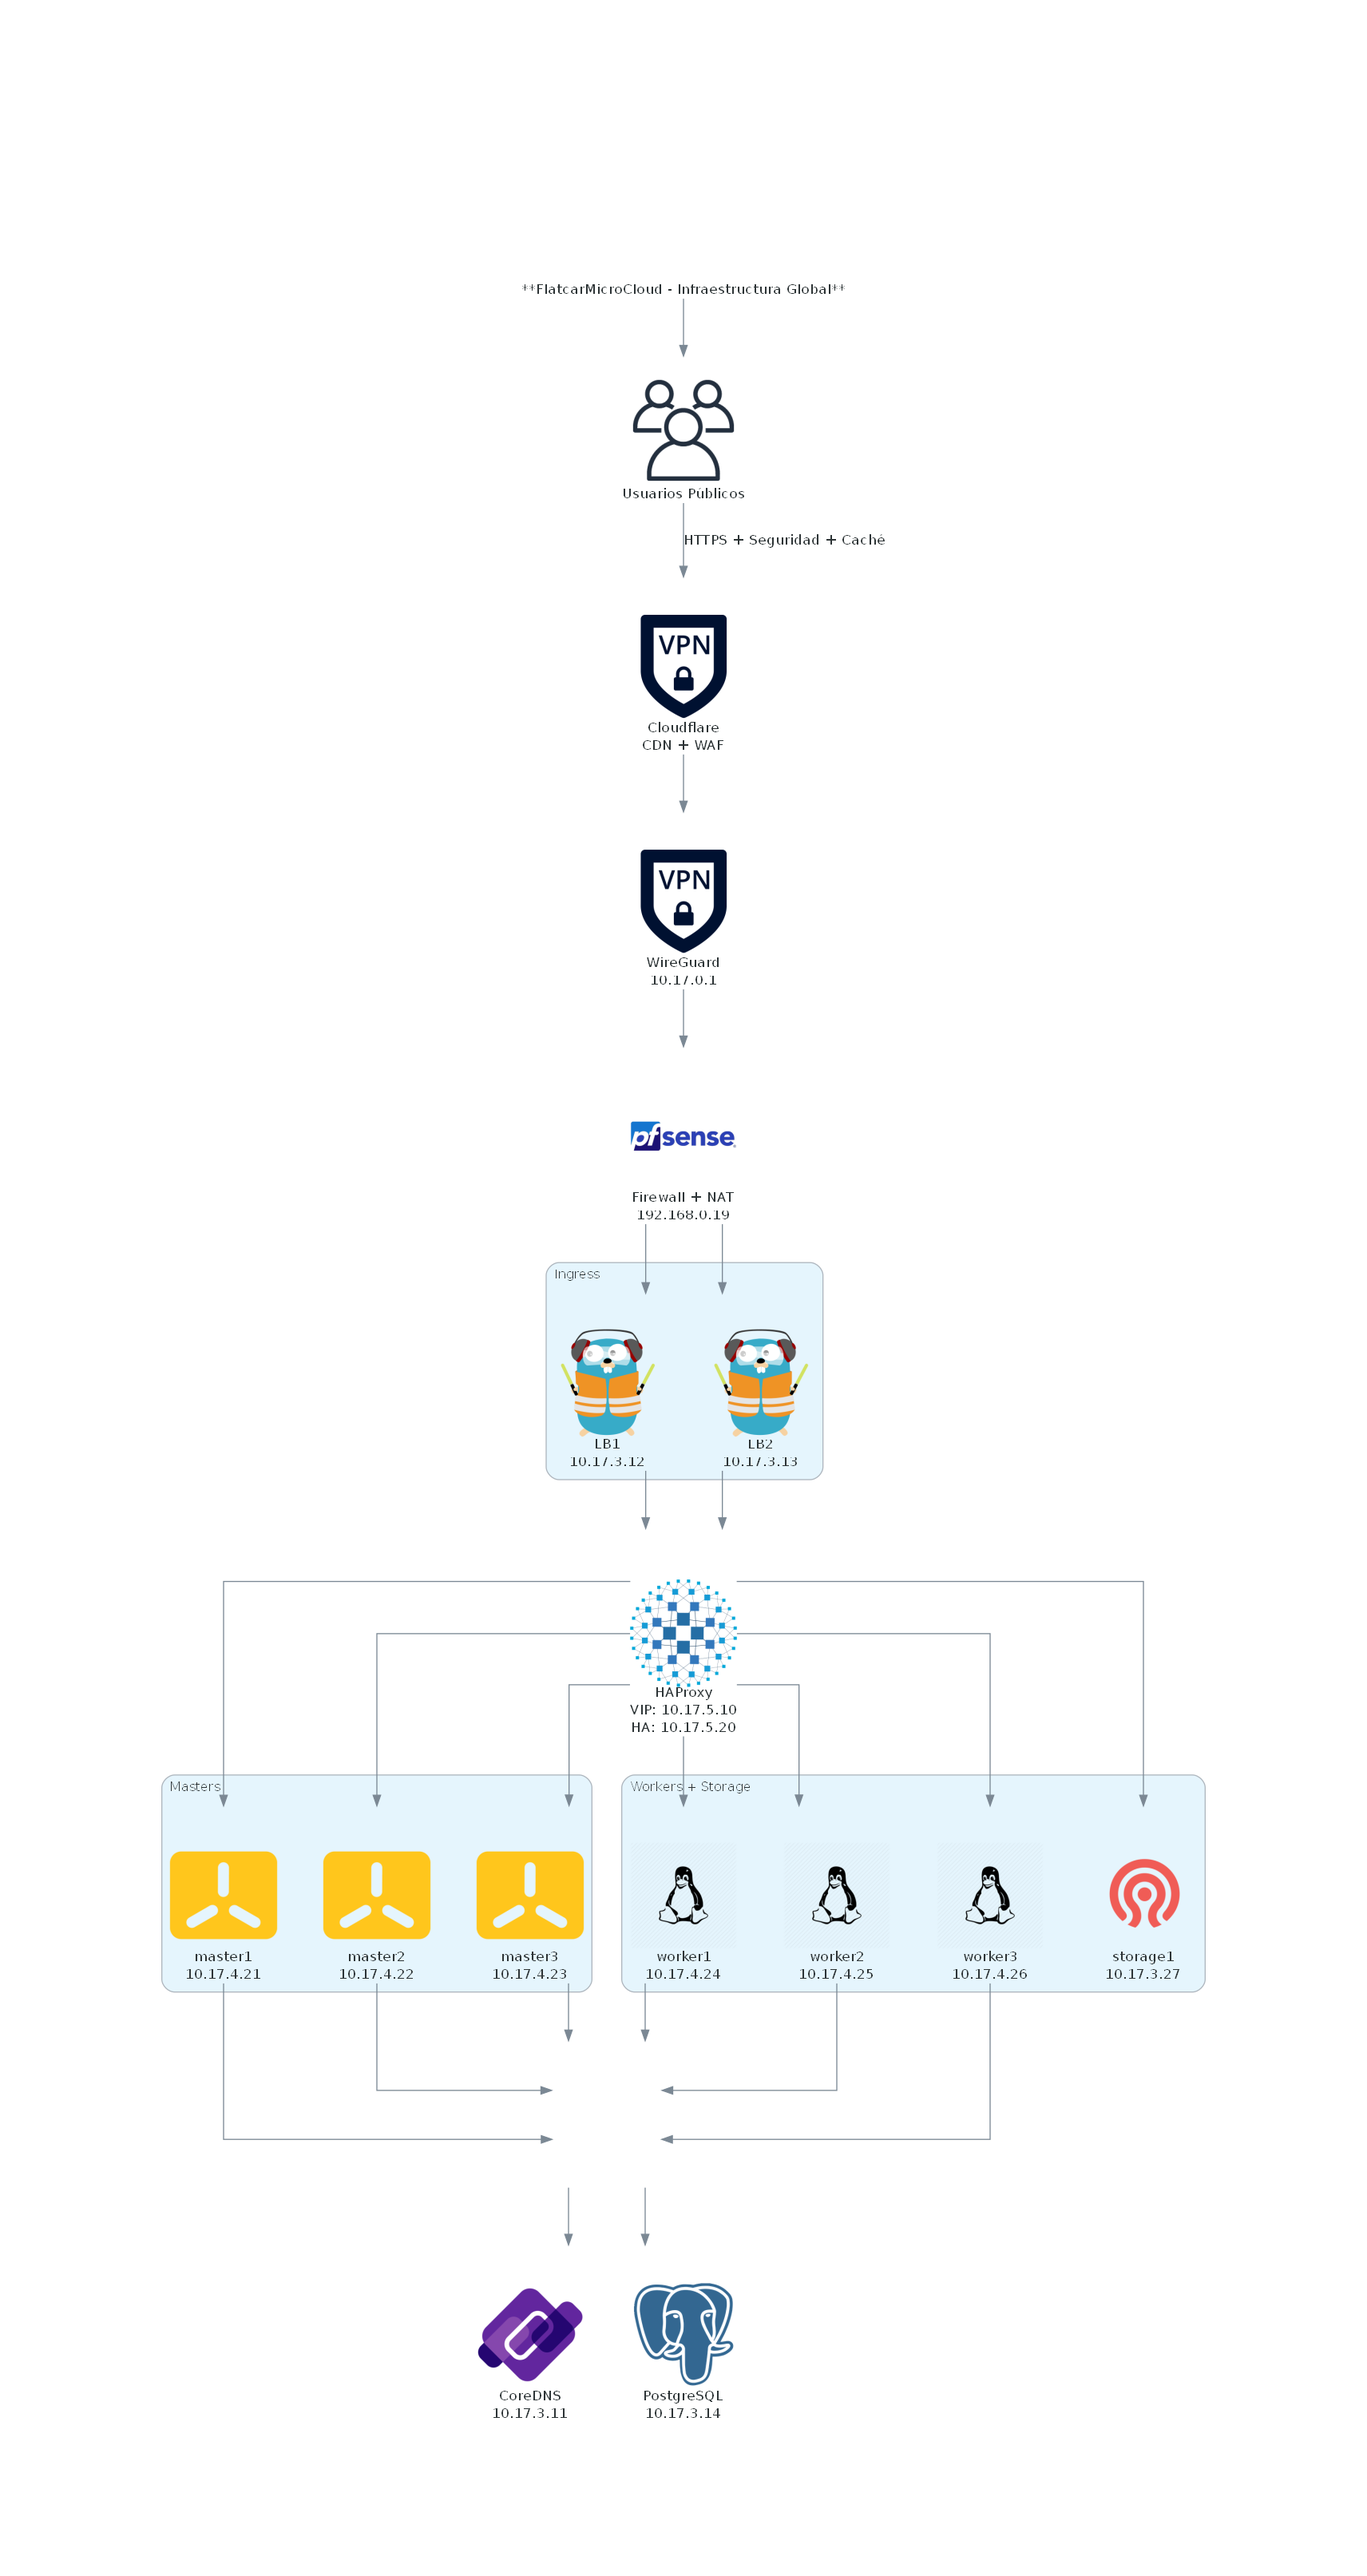
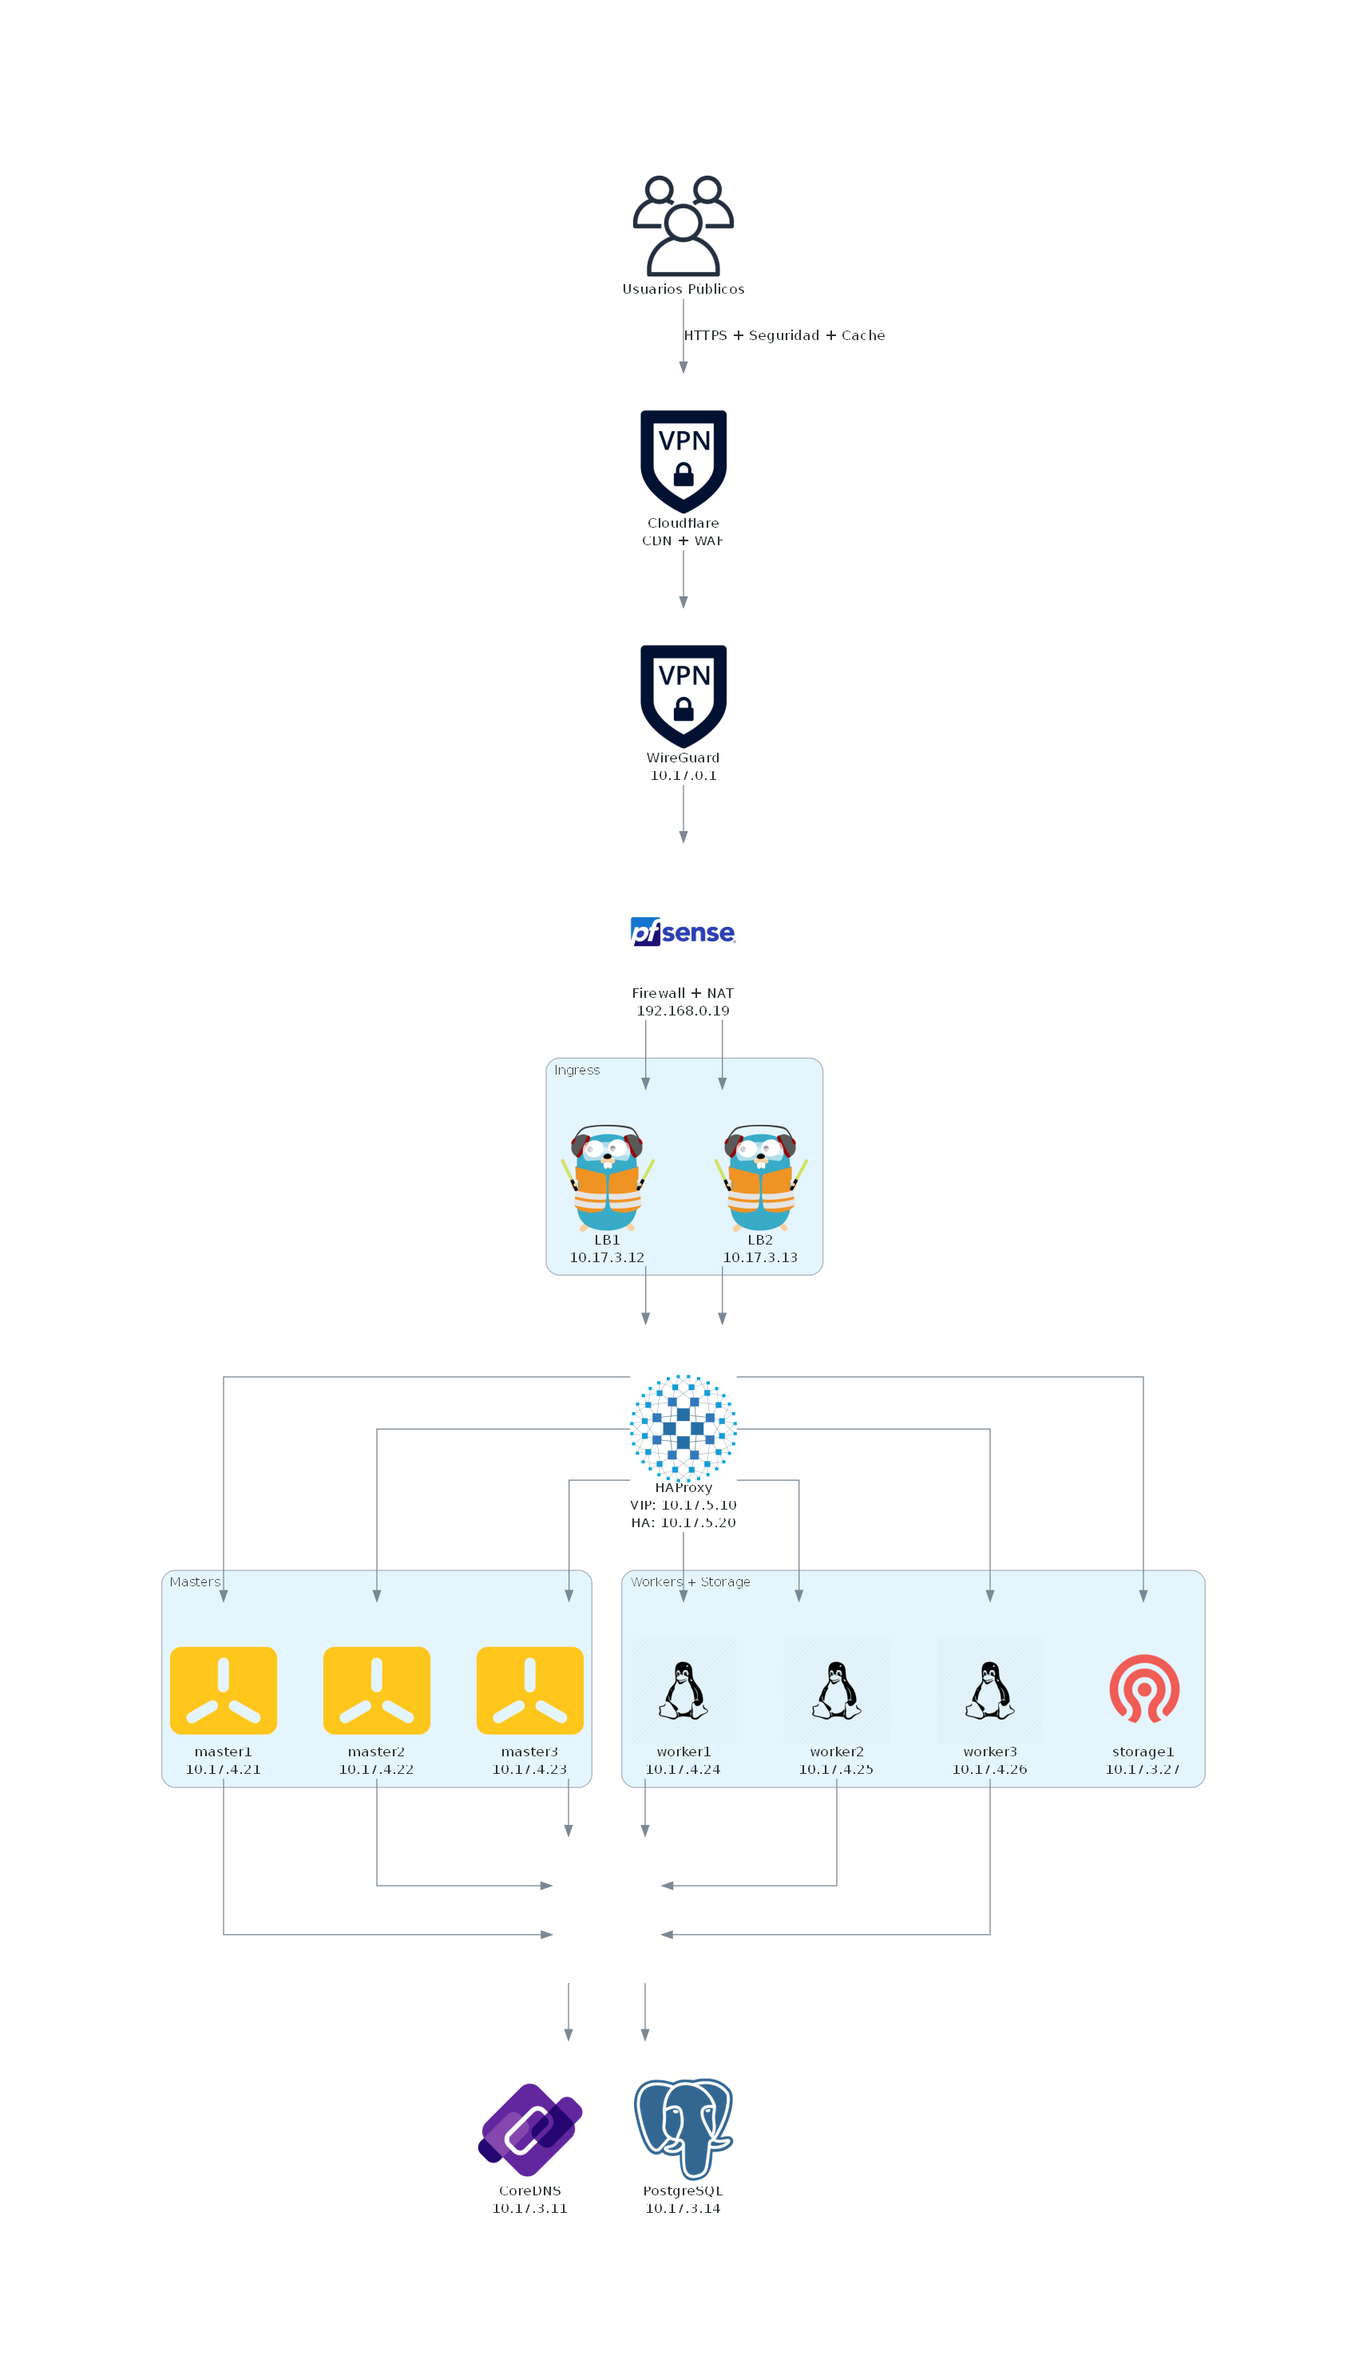
update

diff --git a/arquitectura_FlatcarMicroCloud.py b/arquitectura_FlatcarMicroCloud.py
@@ -8,11 +8,9 @@ from diagrams.onprem.storage import Ceph
 from diagrams.generic.os import LinuxGeneral
 from diagrams.onprem.dns import Coredns
 from diagrams.onprem.database import Postgresql
-from diagrams.generic.blank import Blank  # Para título visual y nodo lógico
+from diagrams.generic.blank import Blank  # Solo se usa para nodo lógico
 
 with Diagram("", show=False, direction="TB", outformat="png"):
-    # Título visual sin conexión
-    titulo = Blank("FLATCARMICROCLOUD - INFRAESTRUCTURA GLOBAL")
 
     # Entrada pública
     usuarios = Users("Usuarios Públicos")
@@ -46,7 +44,7 @@ with Diagram("", show=False, direction="TB", outformat="png"):
         s1 = Ceph("storage1\n10.17.3.27")
     haproxy >> [w1, w2, w3, s1]
 
-    # Nodo lógico para servicios
+    # Nodo invisible para simplificar las conexiones de servicios
     infra = Blank("")
 
     [m1, m2, m3, w1, w2, w3] >> infra
